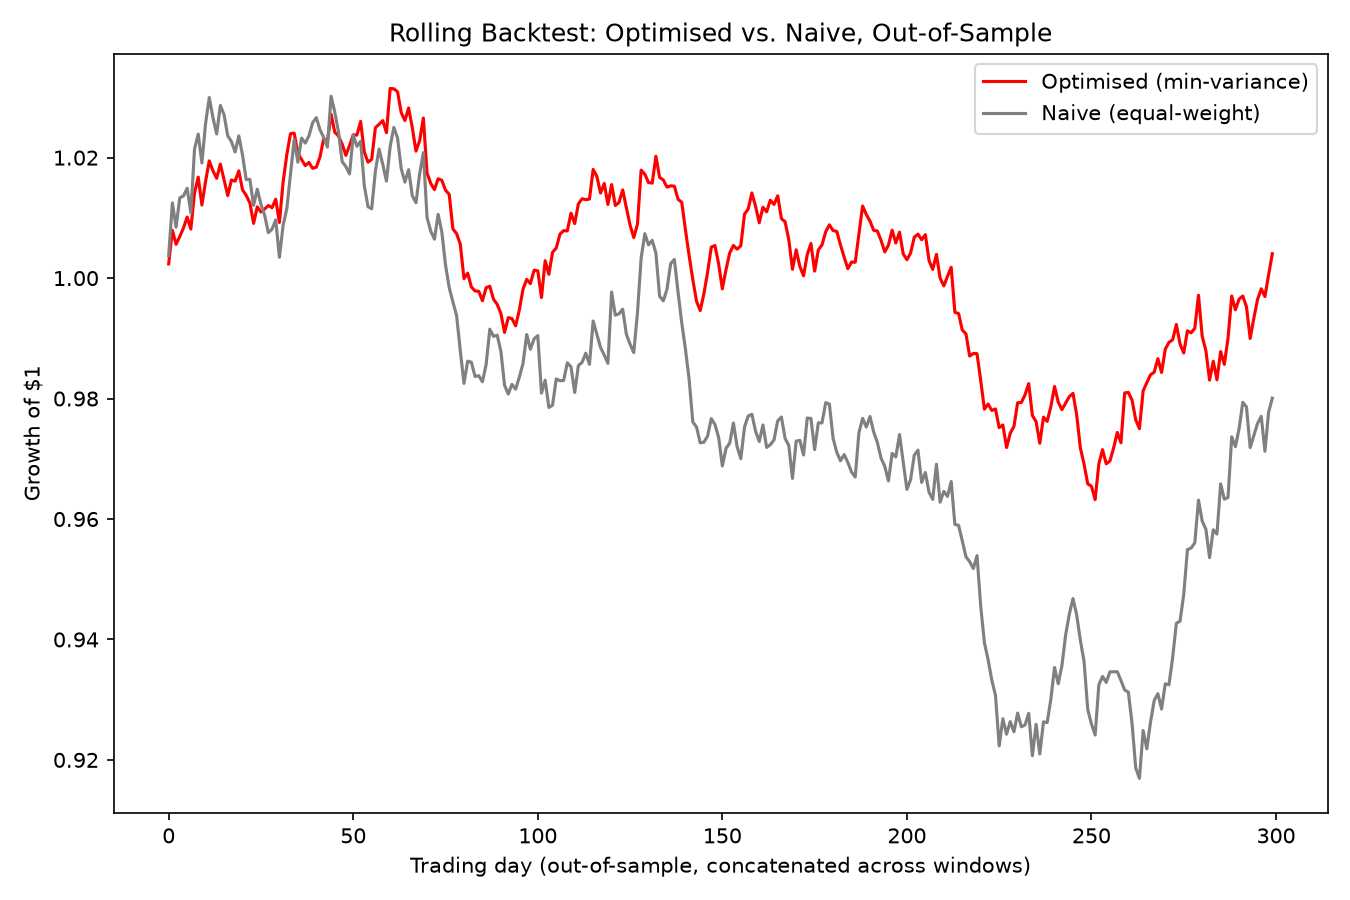
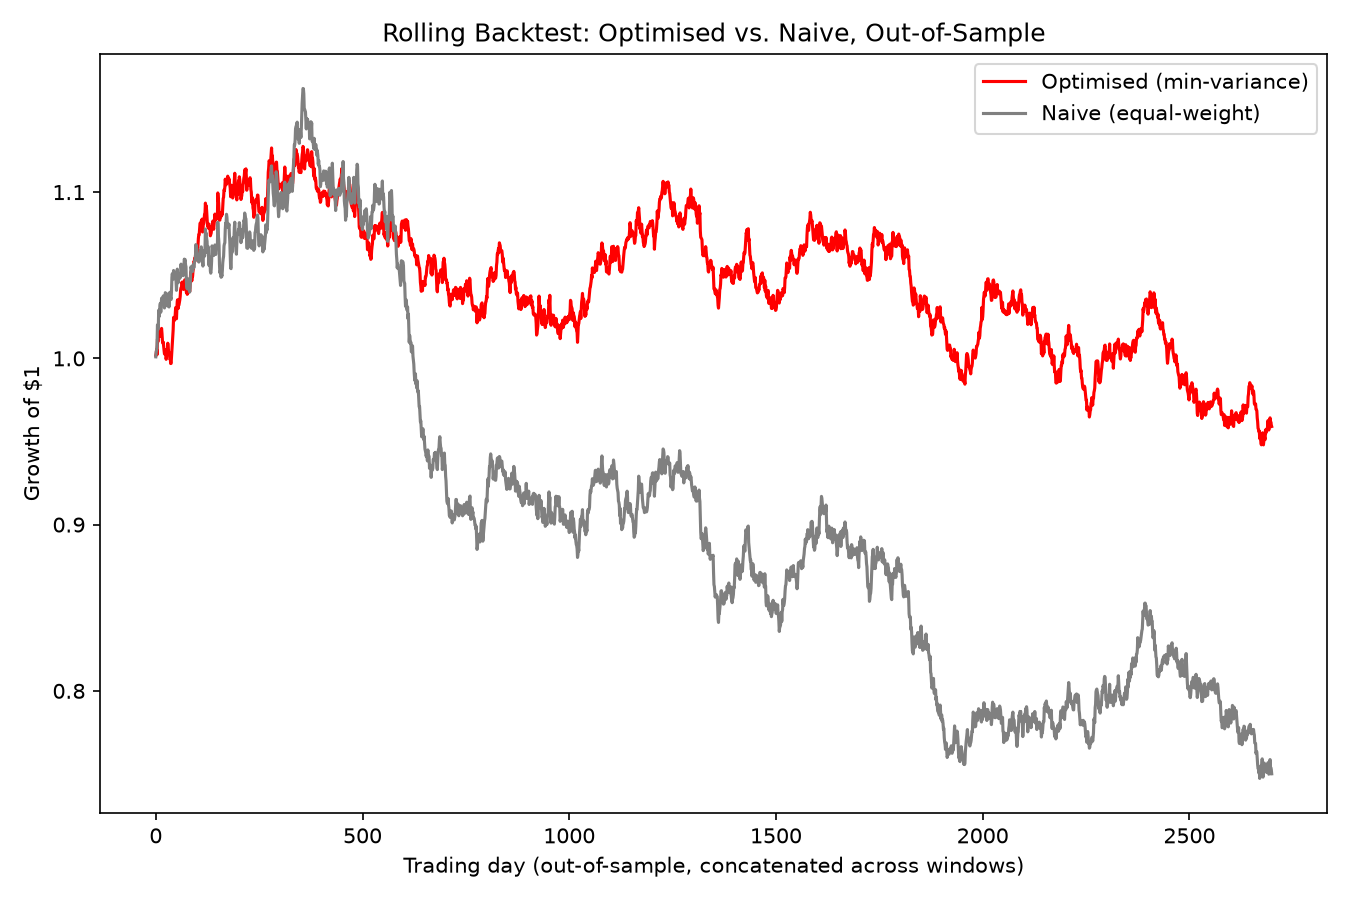
Update simulated price data duration in main.py to 3000 days

diff --git a/main.py b/main.py
@@ -23,7 +23,7 @@ from portfolio.optimiser import (
 from portfolio.backtest import backtest, rolling_backtest, summarise_rolling_backtest
 
 # ---- 1. get price data ----
-prices = simulate_prices(n_assets=4, n_days=600)
+prices = simulate_prices(n_assets=4, n_days=3000)
 # prices = load_prices(["COP", "BJRI", "EVH", "PLMR"], start="2020-01-01", end="2026-07-01")
 
 # ---- 2. process raw data ----

diff --git a/README.md b/README.md
@@ -50,4 +50,5 @@ star marks the global minimum-variance portfolio.
 
 `rolling_backtest.png` shows the results of backtesting the optimally
 weighted solution against a 1/N weighted strategy (portfolio is divided
-equally into each asset). Testing showed that the optimal portfolio' returns outperformed the naive solution 80% of the time.
+equally into each asset). Testing showed that the optimal portfolio' returns outperformed the naive solution only 51% of the time for
+prices = simulate_prices(n_assets=4, n_days=3000).
